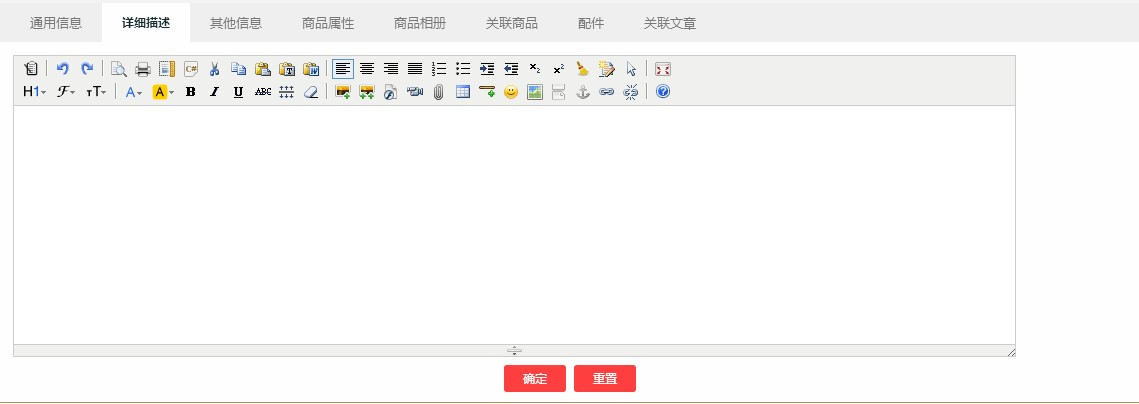
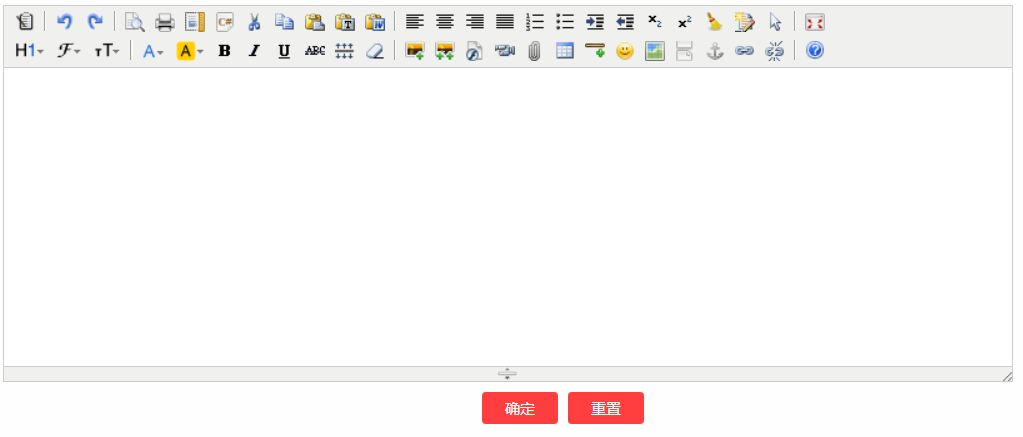
静态页面搭建完成

diff --git a/index/public/stylesheets/add.css b/index/public/stylesheets/add.css
@@ -3,70 +3,80 @@ html.body {
 
 #addcon {
   margin-top: 10px;
-  border: 1px solid #CCCCCC; }
+  border: 1px solid #CCCCCC;
+  height: 100%; }
   #addcon ul {
     width: 100%;
     background: #efefef;
     height: 40px; }
     #addcon ul li {
-      list-style: none;
       float: left;
+      list-style: none;
       padding: 0 20px;
       line-height: 40px;
-      font-size: 12px; }
-    #addcon ul li:nth-of-type(1) {
-      margin-left: 8px;
+      font-size: 12px;
+      color: #222; }
+  #addcon li:nth-of-type(1) {
+    margin-left: 8px;
+    font-weight: 900;
+    background: #fefefe; }
+
+form {
+  background: #fff;
+  width: 100%;
+  padding: 14px 0 45px;
+  height: 100%; }
+  form .btn {
+    background: #91C4D0;
+    color: #335B64;
+    font-weight: 400; }
+  form button {
+    font-size: 12px; }
+  form div {
+    margin: 0 auto;
+    width: auto;
+    position: relative;
+    width: 610px;
+    clear: both; }
+    form div span {
+      font-size: 12px;
+      color: #7F7F7F;
+      line-height: 20px;
+      padding-right: 8px;
+      float: left;
+      margin-top: 10px; }
+    form div span:nth-of-type(1) {
+      padding: 0 8px;
+      line-height: 40px;
+      float: left;
       font-weight: 900;
-      background: #fefefe; }
-  #addcon form {
-    background: #fff;
-    width: 100%;
-    padding: 14px 0 45px; }
-    #addcon form div {
-      margin: 0 auto;
-      width: auto;
-      position: relative;
-      width: 610px;
-      clear: both; }
-      #addcon form div span {
-        font-size: 12px;
-        color: #7F7F7F;
-        line-height: 20px;
-        padding-right: 8px;
-        float: left;
-        margin-top: 10px; }
-      #addcon form div span:nth-of-type(1) {
-        padding: 0 8px;
-        line-height: 40px;
-        float: left;
-        font-size: 14px;
-        color: #333;
-        margin: 0; }
-      #addcon form div input {
-        width: 195px;
-        height: 19px;
-        float: left;
-        margin: 10px 50px 0 0; }
-      #addcon form div div {
-        width: 10px;
-        height: 10px;
-        background: #fff;
-        border: 1px solid #969896;
-        float: left;
-        position: absolute;
-        left: 320px;
-        top: 20px; }
-      #addcon form div select {
-        margin-top: 12px; }
-      #addcon form div em {
-        color: red;
-        line-height: 40px; }
-      #addcon form div i {
-        color: green;
-        float: left;
-        font-size: 24px;
-        line-height: 40px;
-        width: 18px;
-        height: 40px; }
+      color: #333;
+      margin: 0; }
+    form div input {
+      width: 195px;
+      height: 19px;
+      float: left;
+      margin: 10px 50px 0 0; }
+    form div div {
+      width: 10px;
+      height: 10px;
+      background: #fff;
+      border: 1px solid #969896;
+      float: left;
+      position: absolute;
+      left: 320px;
+      top: 20px; }
+    form div select {
+      margin-top: 12px; }
+    form div em {
+      color: red;
+      line-height: 40px; }
+    form div i {
+      color: green;
+      float: left;
+      font-size: 24px;
+      line-height: 40px;
+      width: 18px;
+      height: 40px; }
 
 /*# sourceMappingURL=add.css.map */

diff --git a/index/public/stylesheets/add.scss b/index/public/stylesheets/add.scss
@@ -2,26 +2,32 @@ html.body{
     padding-bottom: 25px;
 }
 #addcon{
-    margin-top:10px;border:1px solid #CCCCCC;
+    margin-top:10px;border:1px solid #CCCCCC;height:100%;
     ul{
         width:100%;background:#efefef;height:40px;
         li{
-           list-style: none;float:left;padding:0 20px;line-height: 40px;font-size:12px;    
+           float:left;list-style: none;padding:0 20px;line-height:40px;font-size:12px;color:#222;   
+            }
         }
         li:nth-of-type(1){
             margin-left: 8px;font-weight: 900;background:#fefefe;
         }
     }
-    
-form{
-    background:#fff;width:100%;padding:14px 0 45px;
-    div{
+    form{
+        background:#fff;width:100%;padding:14px 0 45px;height:100%;
+        .btn{
+            background: #91C4D0;color:#335B64;font-weight: 400;
+        }
+        button{
+            font-size:12px;
+        }
+        div{
         margin:0 auto;width:auto;position: relative;width:610px;clear:both;
         span{
             font-size:12px;color:#7F7F7F;line-height:20px;padding-right:8px;float:left;margin-top:10px;
         }
         span:nth-of-type(1){
-            padding:0 8px;line-height:40px;float:left;font-size:14px;color: #333;margin:0;
+            padding:0 8px;line-height:40px;float:left;font-weight:900;color: #333;margin:0;
         }
         input{
             width:195px;height:19px;float:left;margin:10px 50px 0 0;
@@ -40,4 +46,6 @@ form{
         }
     }
 }
-}
+    
+
+

diff --git a/index/public/stylesheets/common.css b/index/public/stylesheets/common.css
@@ -1,13 +1,16 @@
 * {
   margin: 0;
   padding: 0; }
+  iframe{
+  	border:none;
+  }
 a {
   text-decoration: none;
   color: #fff; }
 #list h1 {
   height: 26px;
   padding: 7px 10px 10px;
-  font-size: 20px;
+  font-size: 18px;
   font-weight: 500;
   line-height: 26px;
   border-bottom: 1px solid #ccc; }
@@ -28,5 +31,9 @@ a {
     	background:#ca4d3c
     }
 #bottom{
-	margin:10px 0;border:1px solid #ccc;width:100%;height:40px;text-align: center;font-size: 12px;color:#969896;padding:15px 0;line-height:18px;background:#f3f3f3 url(../images/th_bg.gif) repeat-x;
+	margin:10px 0 35px;border:1px solid #ccc;height:40px;font-size: 12px;color:#969896;padding:15px 0;line-height:18px;background:#f3f3f3 url(../images/th_bg.gif) repeat-x;
 }
+	#bottom>p{
+		text-align: center;width:99%;
+	}
+

diff --git a/index/public/javascripts/add.js b/index/public/javascripts/add.js
@@ -1,0 +1,12 @@
+window.onload = function(){
+//	选项卡显示情况
+	var lis = $("#addcon").find(".chosecard").find("li");
+	var forms = $("#addcon").find("form");
+	forms.fadeOut(0).eq(0).fadeIn(0);
+	for(let i = 0; i < lis.length;i++){
+		$(lis[i]).click(function(){
+			$(this).css("background","#fefefe").siblings().css("background","#efefef");
+			$(forms).fadeOut(0).eq(i).fadeIn(0);
+		})
+	}
+}

diff --git a/index/app.js b/index/app.js
@@ -10,9 +10,9 @@ var users = require('./routes/users');
 
 var app = express();
 //连接数据库
-//var mongoose = require("mongoose");
+var mongoose = require("mongoose");
 //启动数据库
-//mongoose.connect("mongoodb://localhost/uesr");
+mongoose.connect("mongoodb://localhost/uesr");
 
 // view engine setup
 app.set('views', path.join(__dirname, 'views'));

diff --git a/index/routes/index.js b/index/routes/index.js
@@ -11,6 +11,9 @@ router.get('/list', function(req, res, next) {
 router.get('/add',function(req,res,next){
 	res.render('add')
 })
+router.get('/normal',function(req,res,next){
+	res.render('normal')
+})
 //获取用户名密码进行比对，页面跳转
 router.post('/login',function(req,res){
 	var name=req.body.username;

diff --git a/index/routes/users.js b/index/routes/users.js
@@ -5,5 +5,7 @@ var router = express.Router();
 router.get('/', function(req, res, next) {
   res.render('users');
 });
-
+router.get('/normal',function(req,res,next){
+	res.render('normal')
+})
 module.exports = router;
